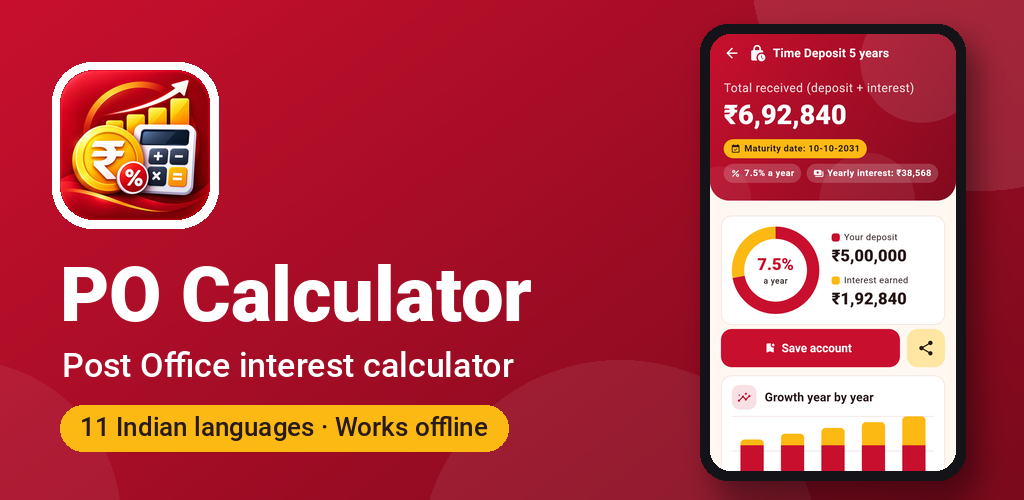
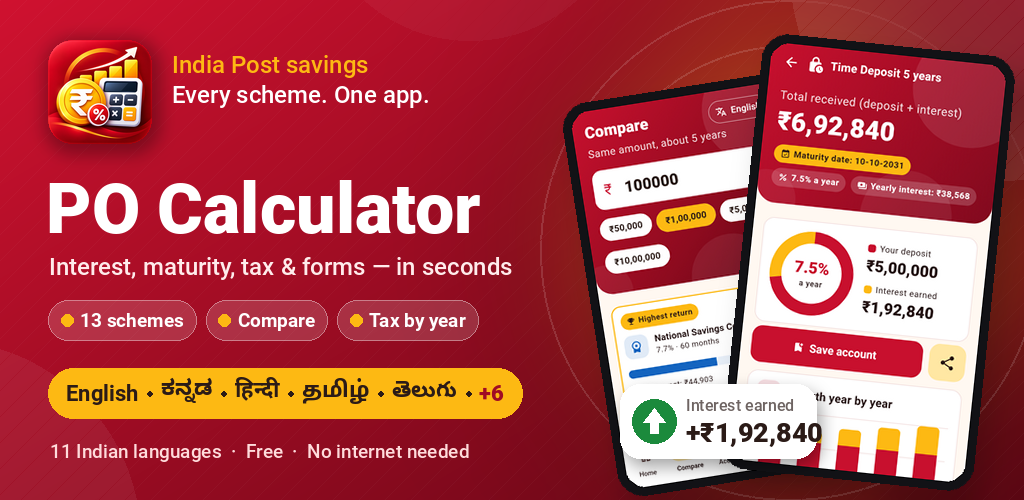
Store: more attractive feature graphic
Two tilted app screens on a golden glow, an interest-earned badge,
feature chips and the language names in their own scripts.

Claude-Session: https://claude.ai/code/session_012VZRKny5dAwRHgm86XLQ6S

diff --git a/tool/make_feature_graphic.py b/tool/make_feature_graphic.py
@@ -1,55 +1,148 @@
 """Play Store feature graphic (1024x500): python3 tool/make_feature_graphic.py
 
-Uses store/icon_512.png and store/screenshots/en/2_result.png.
+Uses store/icon_512.png and store/screenshots/en/{2_result,4_compare}.png.
 """
+import math
+
 from PIL import Image, ImageDraw, ImageFilter, ImageFont
 
 W, H = 1024, 500
 MF = '/opt/flutter-sdk/flutter/bin/cache/artifacts/material_fonts'
-TOP, BOT = (0xC8, 0x10, 0x2E), (0x7A, 0x0A, 0x1C)
+NOTO = '/usr/share/fonts/truetype/noto'
+RED, DEEP = (0xD0, 0x12, 0x30), (0x5E, 0x06, 0x14)
+YELLOW, INK = (0xFD, 0xB9, 0x13), (0x2B, 0x1B, 0x17)
 
 
-def font(name, size):
-    return ImageFont.truetype(f'{MF}/{name}', size)
+def font(name, size, base=MF):
+    return ImageFont.truetype(f'{base}/{name}', size, layout_engine=ImageFont.Layout.RAQM)
 
 
+# Diagonal red gradient.
 grad = Image.new('RGB', (W, H))
 px = grad.load()
 for y in range(H):
     for x in range(W):
-        t = x / W * 0.6 + y / H * 0.4
-        px[x, y] = tuple(int(TOP[i] + (BOT[i] - TOP[i]) * t) for i in range(3))
+        t = min(1, max(0, x / W * 0.55 + y / H * 0.45))
+        px[x, y] = tuple(int(RED[i] + (DEEP[i] - RED[i]) * t) for i in range(3))
 img = grad.convert('RGBA')
-ov = Image.new('RGBA', (W, H), (0, 0, 0, 0))
-d = ImageDraw.Draw(ov)
-for cx, cy, r, a in [(980, -40, 230, 26), (620, 560, 200, 18), (-40, 520, 160, 16)]:
+
+# Warm golden glow behind the phones, soft rings and fine diagonal lines.
+glow = Image.new('RGBA', (W, H), (0, 0, 0, 0))
+g = ImageDraw.Draw(glow)
+g.ellipse((560, 10, 1010, 470), fill=(*YELLOW, 120))
+img = Image.alpha_composite(img, glow.filter(ImageFilter.GaussianBlur(90)))
+deco = Image.new('RGBA', (W, H), (0, 0, 0, 0))
+d = ImageDraw.Draw(deco)
+for cx, cy, r, a in [(1000, -30, 210, 22), (-60, 540, 200, 16), (470, -120, 160, 10)]:
     d.ellipse((cx - r, cy - r, cx + r, cy + r), fill=(255, 255, 255, a))
-img = Image.alpha_composite(img, ov)
-icon = Image.open('store/icon_512.png').convert('RGBA').resize((150, 150), Image.LANCZOS)
-frame = Image.new('RGBA', (W, H), (0, 0, 0, 0))
-ImageDraw.Draw(frame).rounded_rectangle((52, 62, 218, 228), 40, fill='white')
-img = Image.alpha_composite(img, frame)
-mask = Image.new('L', (150, 150), 0)
-ImageDraw.Draw(mask).rounded_rectangle((0, 0, 149, 149), 33, fill=255)
-img.paste(icon, (60, 70), mask)
+for cx, cy, r in [(790, 250, 250), (790, 250, 205)]:
+    d.ellipse((cx - r, cy - r, cx + r, cy + r), outline=(255, 255, 255, 34), width=2)
+for k in range(-H, W, 26):
+    d.line((k, H, k + H, 0), fill=(255, 255, 255, 7), width=1)
+img = Image.alpha_composite(img, deco)
+
+
+def phone(path, w):
+    """Screenshot in a dark rounded phone frame."""
+    h = int(w * 16 / 9)
+    shot = Image.open(path).convert('RGB').resize((w, h), Image.LANCZOS)
+    pad, r = 9, 26
+    ph = Image.new('RGBA', (w + 2 * pad, h + 2 * pad), (0, 0, 0, 0))
+    ImageDraw.Draw(ph).rounded_rectangle((0, 0, w + 2 * pad - 1, h + 2 * pad - 1), r, fill=(18, 18, 22))
+    m = Image.new('L', (w, h), 0)
+    ImageDraw.Draw(m).rounded_rectangle((0, 0, w - 1, h - 1), r - 8, fill=255)
+    ph.paste(shot, (pad, pad), m)
+    return ph
+
+
+def place(base, ph, center, angle):
+    """Rotate [ph], drop a shadow and paste it centred on [center]."""
+    rot = ph.rotate(angle, resample=Image.BICUBIC, expand=True)
+    sh = Image.new('RGBA', rot.size, (0, 0, 0, 0))
+    sh.putalpha(rot.getchannel('A').point(lambda a: int(a * 0.45)))
+    layer = Image.new('RGBA', (W, H), (0, 0, 0, 0))
+    x, y = center[0] - rot.width // 2, center[1] - rot.height // 2
+    layer.paste(sh, (x + 10, y + 16), sh)
+    base = Image.alpha_composite(base, layer.filter(ImageFilter.GaussianBlur(14)))
+    base.alpha_composite(rot, (x, y)) if x >= 0 and y >= 0 else base.paste(rot, (x, y), rot)
+    return base
+
+
+img = place(img, phone('store/screenshots/en/4_compare.png', 214), (705, 285), 9)
+img = place(img, phone('store/screenshots/en/2_result.png', 236), (868, 262), -6)
+
+# Left: icon, name, tagline, features, languages.
 d = ImageDraw.Draw(img)
-d.text((60, 250), 'PO Calculator', font=font('Roboto-Black.ttf', 76), fill='white')
-d.text((62, 345), 'Post Office interest calculator', font=font('Roboto-Medium.ttf', 34),
-       fill=(255, 255, 255, 225))
-pill = '11 Indian languages · Works offline'
-f = font('Roboto-Medium.ttf', 26)
-w = d.textlength(pill, font=f)
-d.rounded_rectangle((60, 405, 60 + w + 40, 451), 23, fill=(0xFD, 0xB9, 0x13))
-d.text((80, 411), pill, font=f, fill=(0x26, 0x1A, 0x1A))
-shot = Image.open('store/screenshots/en/2_result.png').convert('RGB').resize((246, 437), Image.LANCZOS)
-phone = Image.new('RGBA', (266, 457), (0, 0, 0, 0))
-ImageDraw.Draw(phone).rounded_rectangle((0, 0, 265, 456), 28, fill=(20, 20, 24))
-sm = Image.new('L', (246, 437), 0)
-ImageDraw.Draw(sm).rounded_rectangle((0, 0, 245, 436), 20, fill=255)
-phone.paste(shot, (10, 10), sm)
-shadow = Image.new('RGBA', (W, H), (0, 0, 0, 0))
-ImageDraw.Draw(shadow).rounded_rectangle((712, 40, 978, 497), 28, fill=(0, 0, 0, 110))
-img = Image.alpha_composite(img, shadow.filter(ImageFilter.GaussianBlur(14)))
-img.alpha_composite(phone, (700, 24))
+icon = Image.open('store/icon_512.png').convert('RGBA').resize((104, 104), Image.LANCZOS)
+ring = Image.new('RGBA', (W, H), (0, 0, 0, 0))
+ImageDraw.Draw(ring).rounded_rectangle((44, 38, 160, 154), 30, fill=(0, 0, 0, 80))
+img = Image.alpha_composite(img, ring.filter(ImageFilter.GaussianBlur(8)))
+im = Image.new('L', (104, 104), 0)
+ImageDraw.Draw(im).rounded_rectangle((0, 0, 103, 103), 24, fill=255)
+img.paste(icon, (48, 40), im)
+d = ImageDraw.Draw(img)
+d.text((172, 50), 'India Post savings', font=font('Roboto-Medium.ttf', 24), fill=(*YELLOW, 255))
+d.text((172, 80), 'Every scheme. One app.', font=font('Roboto-Medium.ttf', 24), fill='white')
+
+d.text((46, 168), 'PO Calculator', font=font('Roboto-Black.ttf', 70), fill='white')
+d.text((49, 252), 'Interest, maturity, tax & forms — in seconds',
+       font=font('Roboto-Medium.ttf', 24), fill=(255, 236, 236))
+
+chips = ['13 schemes', 'Compare', 'Tax by year']
+glass = Image.new('RGBA', (W, H), (0, 0, 0, 0))
+gd = ImageDraw.Draw(glass)
+x, y = 48, 300
+f = font('Roboto-Bold.ttf', 19)
+spots = []
+for c in chips:
+    w = d.textlength(c, font=f)
+    gd.rounded_rectangle((x, y, x + w + 44, y + 40), 20, fill=(255, 255, 255, 38),
+                         outline=(255, 255, 255, 120), width=1)
+    spots.append((x, c))
+    x += w + 54
+img = Image.alpha_composite(img, glass)
+d = ImageDraw.Draw(img)
+for x, c in spots:
+    d.ellipse((x + 13, y + 14, x + 25, y + 26), fill=YELLOW)
+    d.text((x + 32, y + 9), c, font=f, fill='white')
+
+# Language strip: each name in its own script.
+langs = [('English', 'Roboto-Bold.ttf', MF), ('ಕನ್ನಡ', 'NotoSansKannada-Bold.ttf', NOTO),
+         ('हिन्दी', 'NotoSansDevanagari-Bold.ttf', NOTO), ('தமிழ்', 'NotoSansTamil-Bold.ttf', NOTO),
+         ('తెలుగు', 'NotoSansTelugu-Bold.ttf', NOTO)]
+y = 368
+fs = [font(n, 22, base) for _, n, base in langs]
+more = '+6'
+fm = font('Roboto-Black.ttf', 22)
+total = sum(d.textlength(t, font=f) for (t, _, _), f in zip(langs, fs)) + 22 * len(langs) + d.textlength(more, font=fm)
+d.rounded_rectangle((48, y, 48 + total + 36, y + 50), 25, fill=YELLOW)
+x = 66
+for (t, _, _), f in zip(langs, fs):
+    d.text((x, y + 9 if f is not fs[0] else y + 12), t, font=f, fill=INK)
+    x += d.textlength(t, font=f) + 10
+    d.ellipse((x - 1, y + 23, x + 4, y + 28), fill=(*INK, 160))
+    x += 12
+d.text((x, y + 12), more, font=fm, fill=(0xA0, 0x0C, 0x24))
+
+d.text((50, 440), '11 Indian languages  ·  Free  ·  No internet needed',
+       font=font('Roboto-Medium.ttf', 19), fill=(255, 220, 220))
+
+# Floating "interest earned" badge over the phones.
+badge = Image.new('RGBA', (W, H), (0, 0, 0, 0))
+b = ImageDraw.Draw(badge)
+bx, by, bw, bh = 620, 384, 196, 74
+b.rounded_rectangle((bx + 4, by + 8, bx + bw + 4, by + bh + 8), 20, fill=(0, 0, 0, 90))
+badge = badge.filter(ImageFilter.GaussianBlur(8))
+b = ImageDraw.Draw(badge)
+b.rounded_rectangle((bx, by, bx + bw, by + bh), 20, fill='white')
+b.ellipse((bx + 12, by + 15, bx + 56, by + 59), fill=(0x1B, 0x8A, 0x3C))
+# Up arrow inside the green circle.
+cx, cy = bx + 34, by + 37
+b.polygon([(cx, cy - 13), (cx - 11, cy + 1), (cx + 11, cy + 1)], fill='white')
+b.rectangle((cx - 4, cy, cx + 4, cy + 12), fill='white')
+b.text((bx + 66, by + 12), 'Interest earned', font=font('Roboto-Medium.ttf', 16), fill=(110, 100, 98))
+b.text((bx + 66, by + 32), '+₹1,92,840', font=font('Roboto-Black.ttf', 27), fill=INK)
+img = Image.alpha_composite(img, badge)
+
 img.convert('RGB').save('store/feature_graphic.png')
 print('store/feature_graphic.png', img.size)
